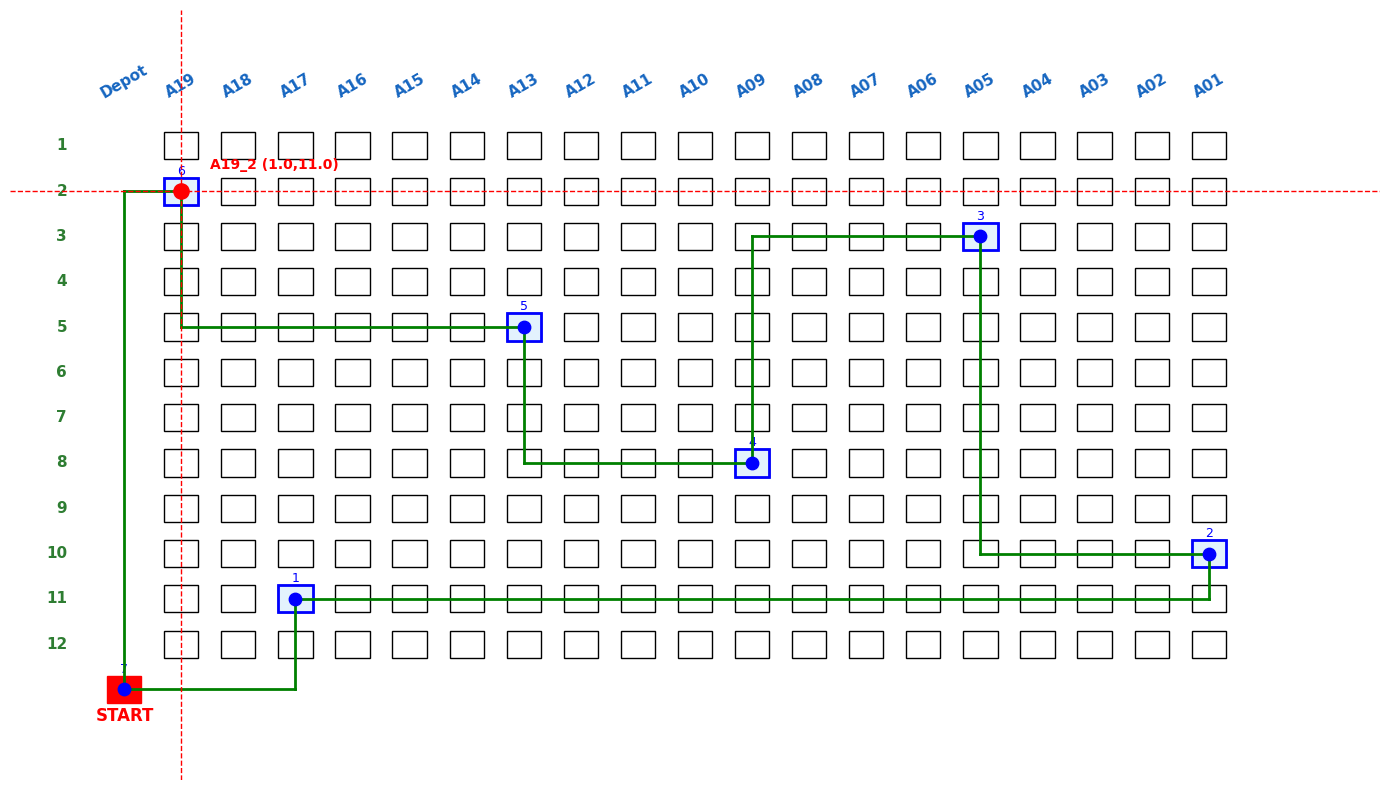
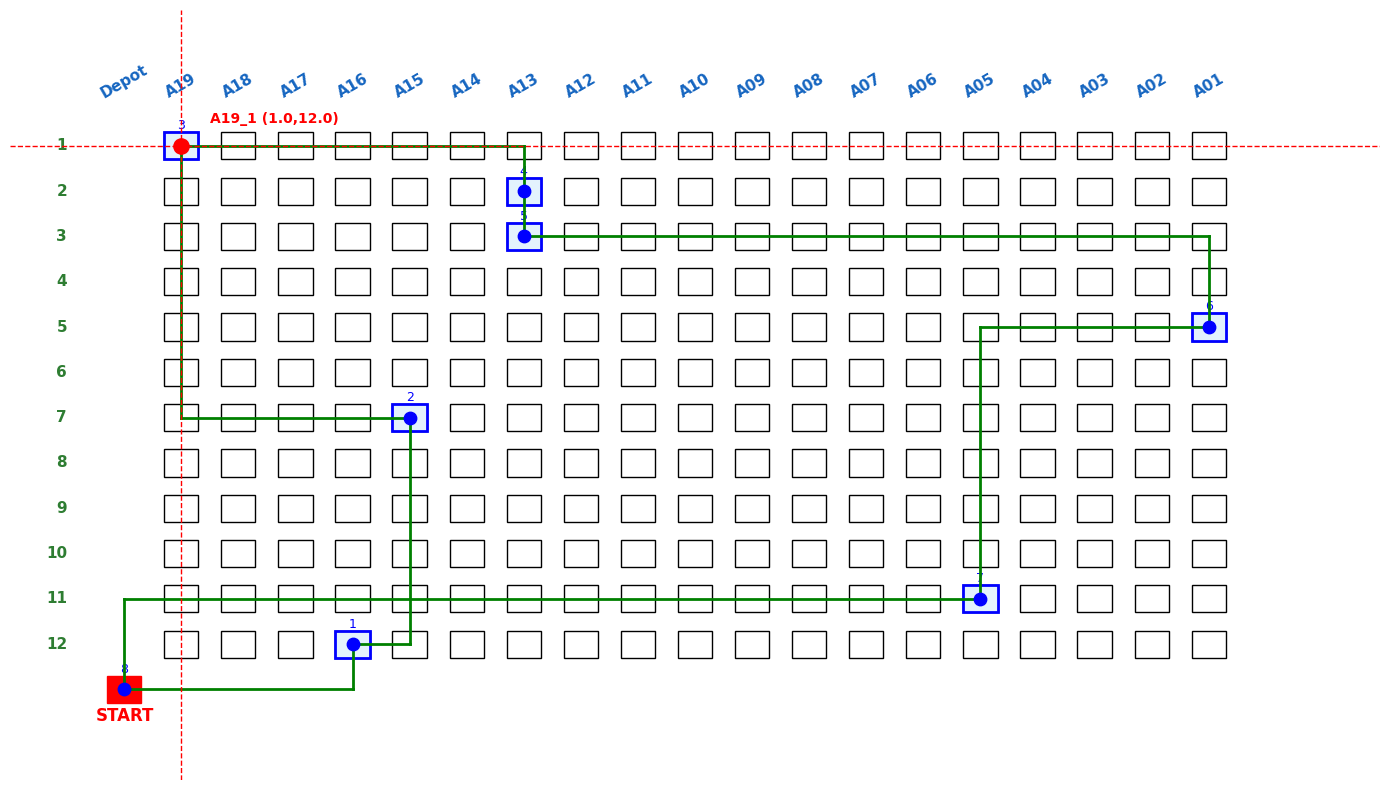
final

diff --git a/index.html b/index.html
@@ -1,0 +1,171 @@
+<!DOCTYPE html>
+<html lang="en">
+<head>
+  <meta charset="UTF-8">
+  <meta name="viewport" content="width=device-width, initial-scale=1.0">
+  <title>Warehouse Manager Dashboard</title>
+  <link href="https://cdn.jsdelivr.net/npm/bootstrap@5.3.2/dist/css/bootstrap.min.css" rel="stylesheet">
+  <link rel="stylesheet" href="https://cdn.jsdelivr.net/npm/bootstrap-icons@1.11.3/font/bootstrap-icons.css">
+  <style>
+    body {
+      background-color: #f4f6f9;
+      font-family: "Segoe UI", Tahoma, Geneva, Verdana, sans-serif;
+    }
+    .card {
+      border-radius: 15px;
+      box-shadow: 0 6px 18px rgba(0,0,0,0.05);
+    }
+    .step-header {
+      display: flex;
+      align-items: center;
+      font-weight: bold;
+      color: #0d6efd;
+      margin-bottom: 10px;
+    }
+    .step-header i {
+      font-size: 1.5rem;
+      margin-right: 10px;
+    }
+    .route-img {
+      max-width: 100%;
+      border: 3px solid #ddd;
+      border-radius: 12px;
+      margin-top: 15px;
+    }
+  </style>
+</head>
+<body>
+  <div class="container py-5">
+
+    <!-- Header -->
+    <div class="text-center mb-5">
+      <h1 class="fw-bold">📦 Warehouse Optimization Dashboard</h1>
+      <p class="text-muted">Manager Panel - Streamlined Order Fulfillment</p>
+    </div>
+
+    <!-- Order Input -->
+    <div class="card p-4 mb-5">
+      <div class="step-header">
+        <i class="bi bi-clipboard-check"></i> Enter Order Details
+      </div>
+      <textarea id="orderInput" class="form-control mb-3" rows="3"
+        placeholder="Enter order items, e.g., 
+ORD_001: SKU001, SKU002, SKU003"></textarea>
+      <button class="btn btn-primary" onclick="processOrder()">Process Order</button>
+    </div>
+
+    <!-- Workflow Results -->
+    <div id="workflow" style="display:none;">
+
+      <!-- Stockout Prediction -->
+      <div class="card p-4 mb-4">
+        <div class="step-header">
+          <i class="bi bi-box-seam"></i> Step 1: Stock Availability Check
+        </div>
+        <p class="text-muted">Predicted demand and stock levels:</p>
+        <table class="table table-bordered table-striped">
+          <thead>
+            <tr>
+              <th>Item ID</th>
+              <th>Predicted Demand</th>
+              <th>Available Stock</th>
+              <th>Status</th>
+            </tr>
+          </thead>
+          <tbody id="stockTable"></tbody>
+        </table>
+      </div>
+
+      <!-- Inventory Placement -->
+      <div class="card p-4 mb-4">
+        <div class="step-header">
+          <i class="bi bi-archive"></i> Step 2: Inventory Placement
+        </div>
+        <p class="text-muted">Recommended storage locations for items:</p>
+        <table class="table table-bordered table-striped">
+          <thead>
+            <tr>
+              <th>Item ID</th>
+              <th>Recommended Location</th>
+            </tr>
+          </thead>
+          <tbody id="inventoryTable"></tbody>
+        </table>
+      </div>
+
+      <!-- Route Optimization -->
+      <div class="card p-4">
+        <div class="step-header">
+          <i class="bi bi-signpost-split"></i> Step 3: Route Optimization
+        </div>
+        <p class="text-muted">Optimized picking route for this order:</p>
+        <p><strong>Order:</strong> <span id="orderId"></span></p>
+        <p><strong>Baseline Distance:</strong> <span id="baselineDist"></span></p>
+        <p><strong>Optimized Distance:</strong> <span id="optimizedDist"></span></p>
+        <p><strong>Improvement:</strong> <span id="improvement"></span>%</p>
+        <p><strong>Route Sequence:</strong> <span id="routeSeq"></span></p>
+
+        <h6 class="mt-4">Route Visualization</h6>
+        <img id="routeImage" src="warehouse_route.png" alt="Route Visualization" class="route-img">
+      </div>
+
+    </div>
+  </div>
+
+  <script src="https://cdn.jsdelivr.net/npm/bootstrap@5.3.2/dist/js/bootstrap.bundle.min.js"></script>
+  <script>
+    function processOrder() {
+      document.getElementById("workflow").style.display = "block";
+
+      // ---- Stockout Prediction ----
+      const stockResults = [
+        { item: "SKU001", demand: 7, stock: 10, status: "Available" },
+        { item: "SKU002", demand: 5, stock: 3, status: "⚠ Risk of Stockout" },
+        { item: "SKU003", demand: 4, stock: 8, status: "Available" }
+      ];
+      let stockTable = document.getElementById("stockTable");
+      stockTable.innerHTML = "";
+      stockResults.forEach(r => {
+        stockTable.innerHTML += `<tr>
+          <td>${r.item}</td>
+          <td>${r.demand}</td>
+          <td>${r.stock}</td>
+          <td>${r.status}</td>
+        </tr>`;
+      });
+
+      // ---- Inventory Placement ----
+      const inventoryResults = [
+        { item_id: "SKU001", location: "A1-S1" },
+        { item_id: "SKU002", location: "A5-S12" },
+        { item_id: "SKU003", location: "A10-S7" }
+      ];
+      let inventoryTable = document.getElementById("inventoryTable");
+      inventoryTable.innerHTML = "";
+      inventoryResults.forEach(r => {
+        inventoryTable.innerHTML += `<tr>
+          <td>${r.item_id}</td>
+          <td>${r.location}</td>
+        </tr>`;
+      });
+
+      // ---- Route Optimization ----
+      const routeOutput = {
+        order_id: "ORD_001",
+        baseline_distance: 70,
+        optimized_distance: 58,
+        improvement_percent: 17.1,
+        route_sequence: ["Depot", "A19_2", "A10_4", "A01_6", "A05_11", "A15_7", "Depot"],
+        route_image: "warehouse_route.png"
+      };
+
+      document.getElementById("orderId").innerText = routeOutput.order_id;
+      document.getElementById("baselineDist").innerText = routeOutput.baseline_distance;
+      document.getElementById("optimizedDist").innerText = routeOutput.optimized_distance;
+      document.getElementById("improvement").innerText = routeOutput.improvement_percent;
+      document.getElementById("routeSeq").innerText = routeOutput.route_sequence.join(" → ");
+      document.getElementById("routeImage").src = routeOutput.route_image;
+    }
+  </script>
+</body>
+</html>
